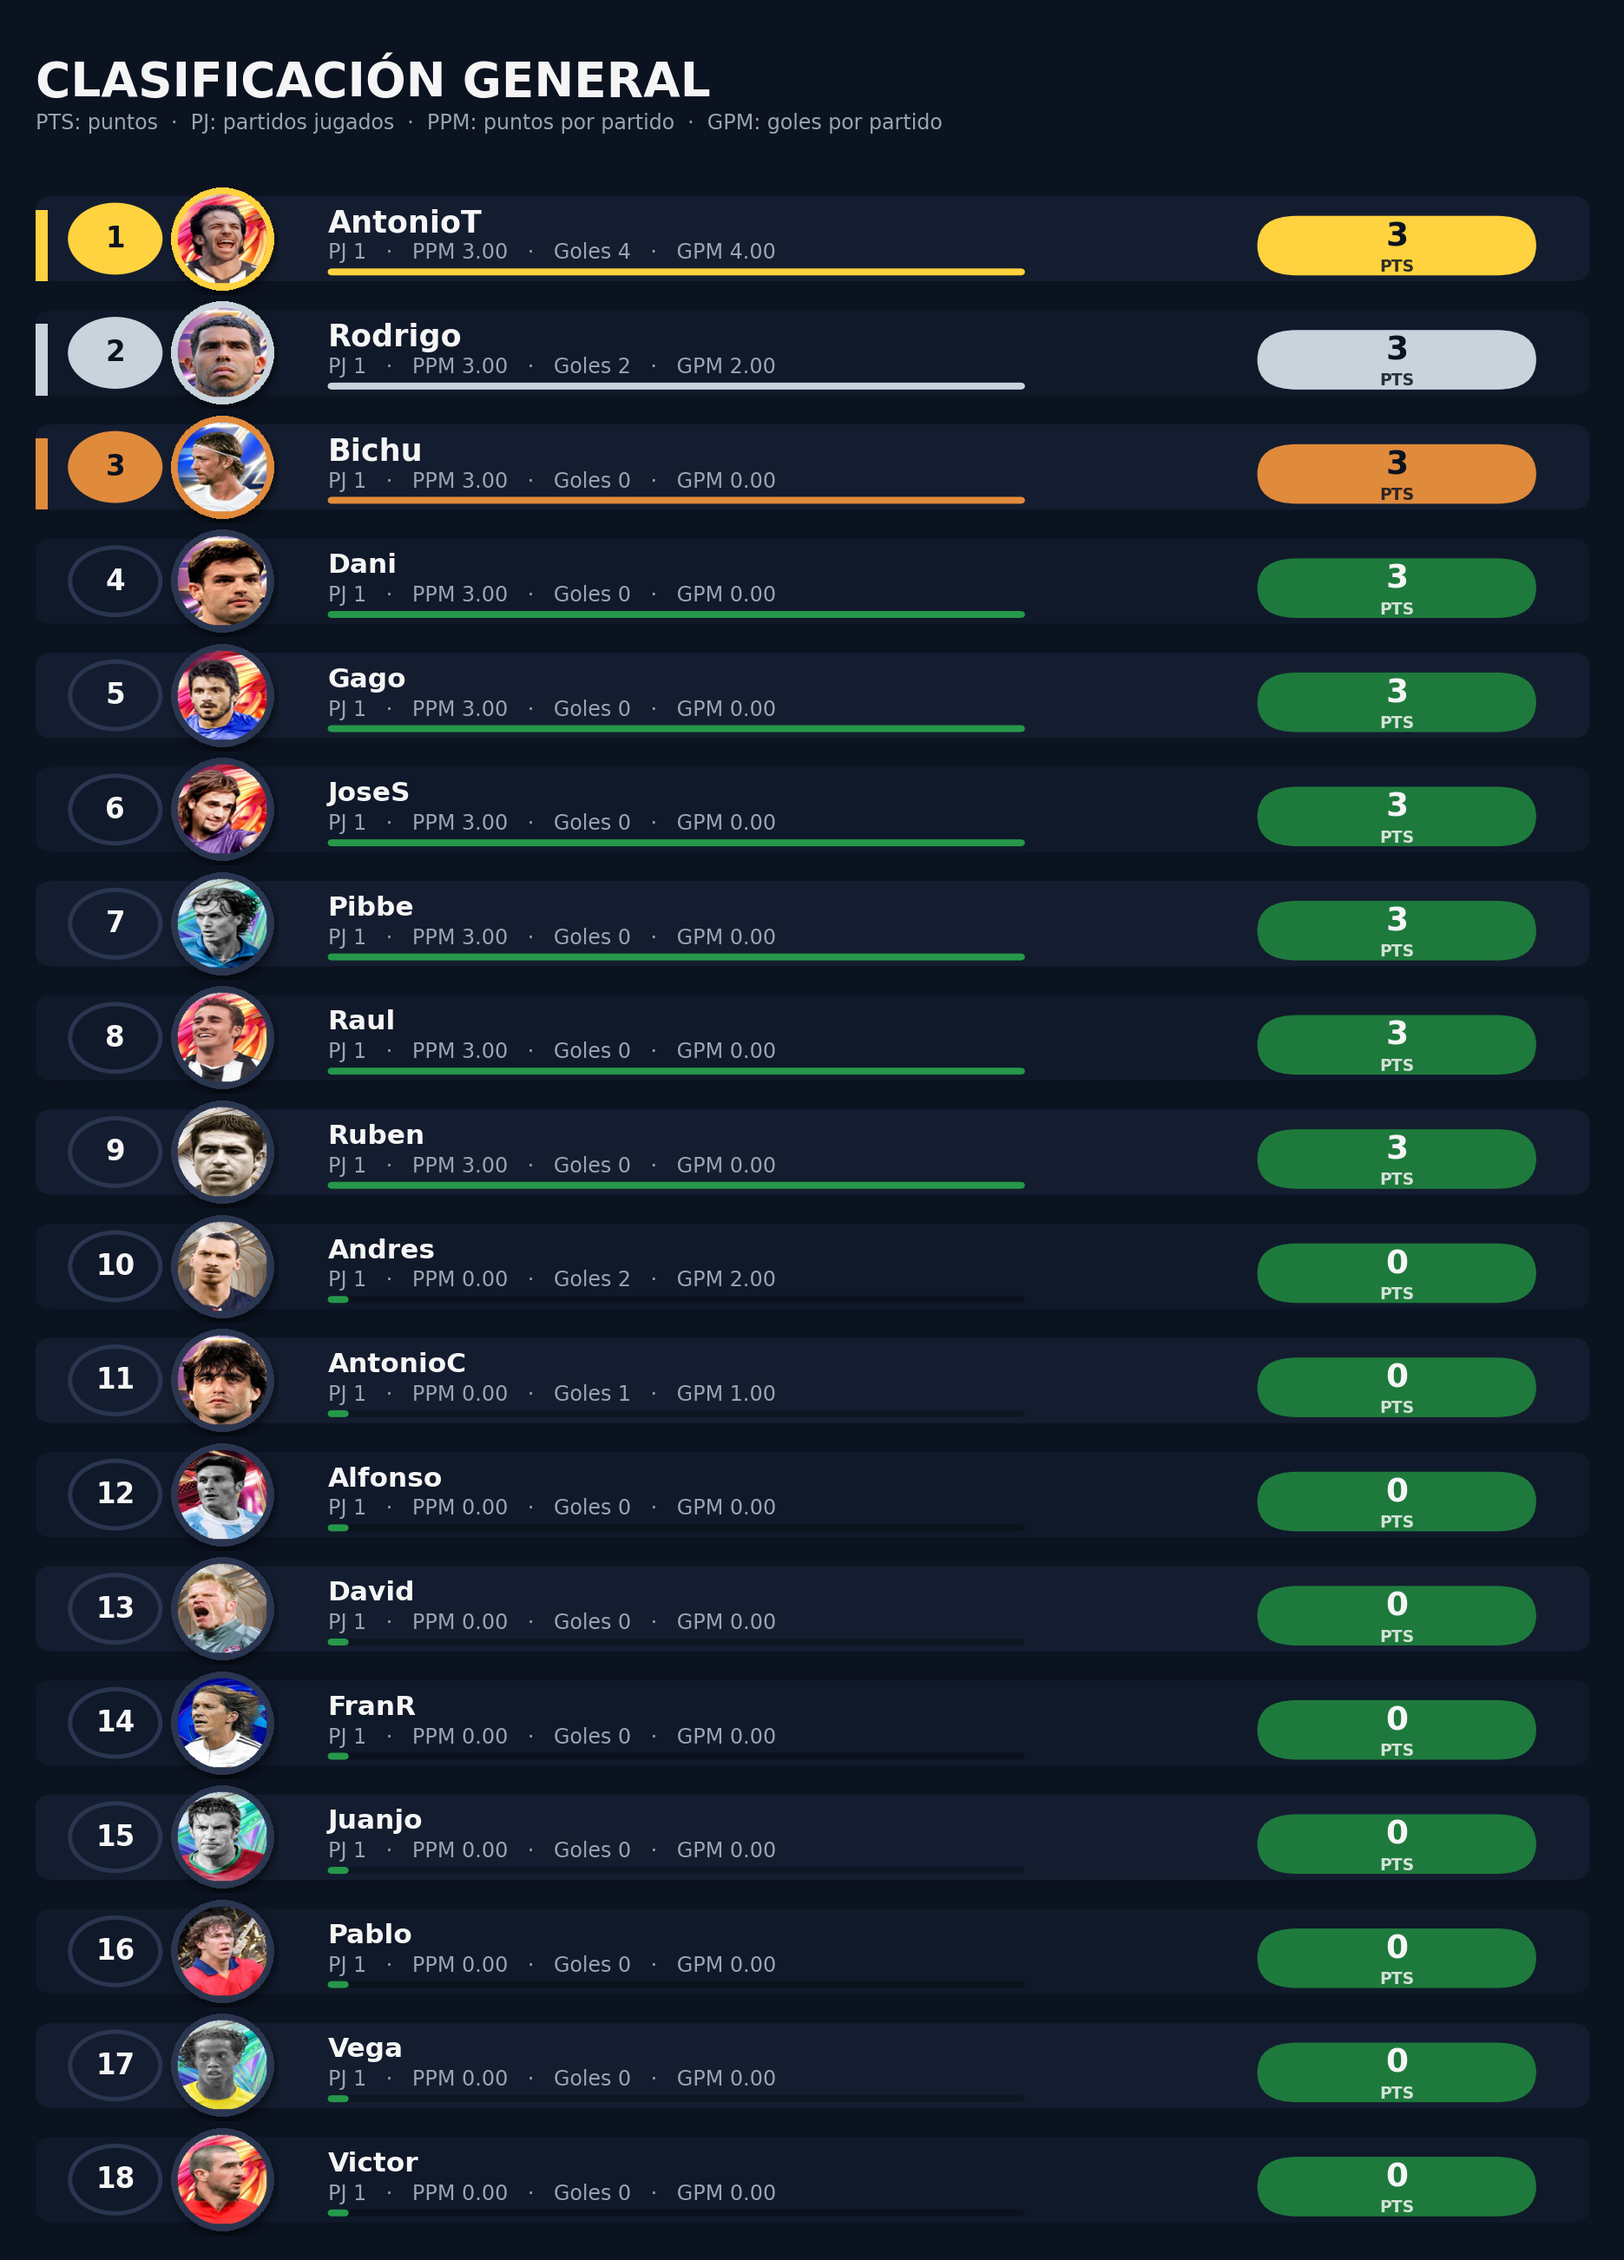
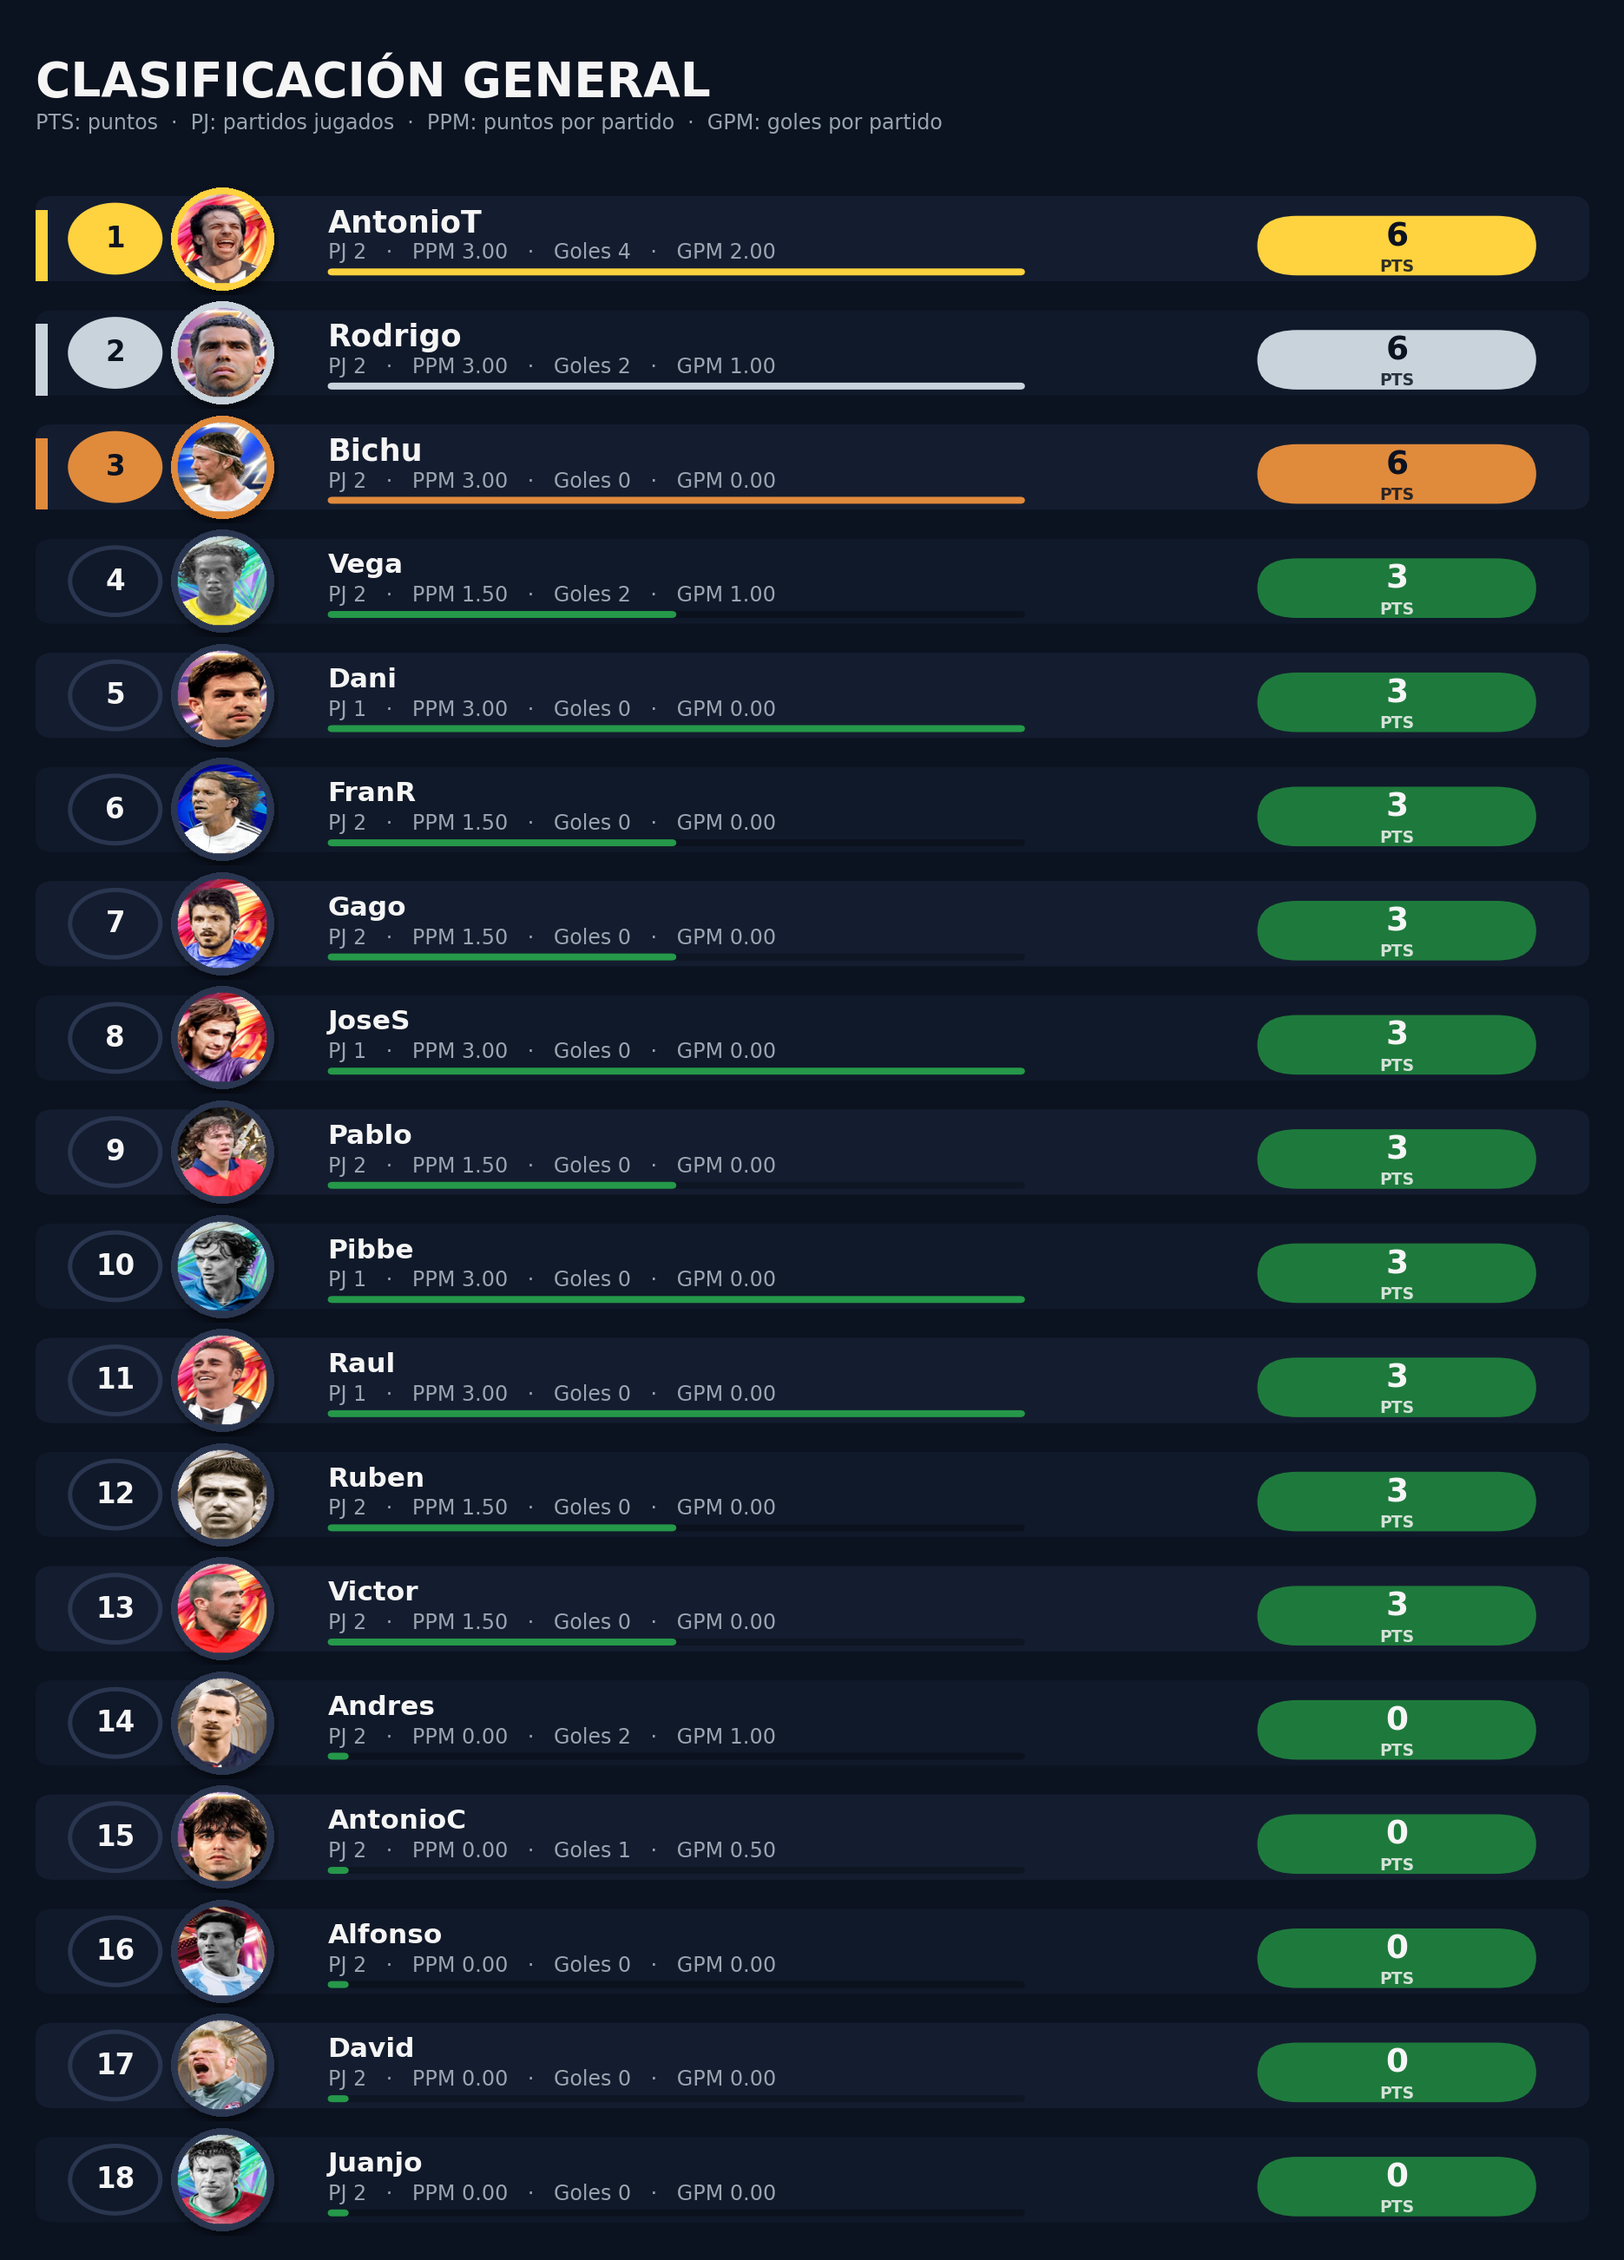
Actualizar resultados y estadisticas (05/09/2026 19:35)

diff --git a/index.html b/index.html
@@ -61,7 +61,7 @@
 <header>
   <img class="crest" src="img/escudo.png" alt="Escudo Peña QueSeFolme">
   <h1>Peña QueSeFolme</h1>
-  <p>Resultados y Estadísticas · Actualizado el 05/09/2026 19:33</p>
+  <p>Resultados y Estadísticas · Actualizado el 05/09/2026 19:35</p>
 </header>
 <nav>
   <a href="#clasificacion">🏆 Clasificación</a>
@@ -80,6 +80,11 @@
   <section id="partidos">
     <h2>📅 Partidos</h2>
     
+    <div class="match-card">
+      <h3>16/09/2026</h3>
+      <img src="img/partido_20260916.png" alt="Resultado del 16/09/2026" loading="lazy">
+    </div>
+
     <div class="match-card">
       <h3>09/09/2026</h3>
       <img src="img/partido_20260909.png" alt="Resultado del 09/09/2026" loading="lazy">
